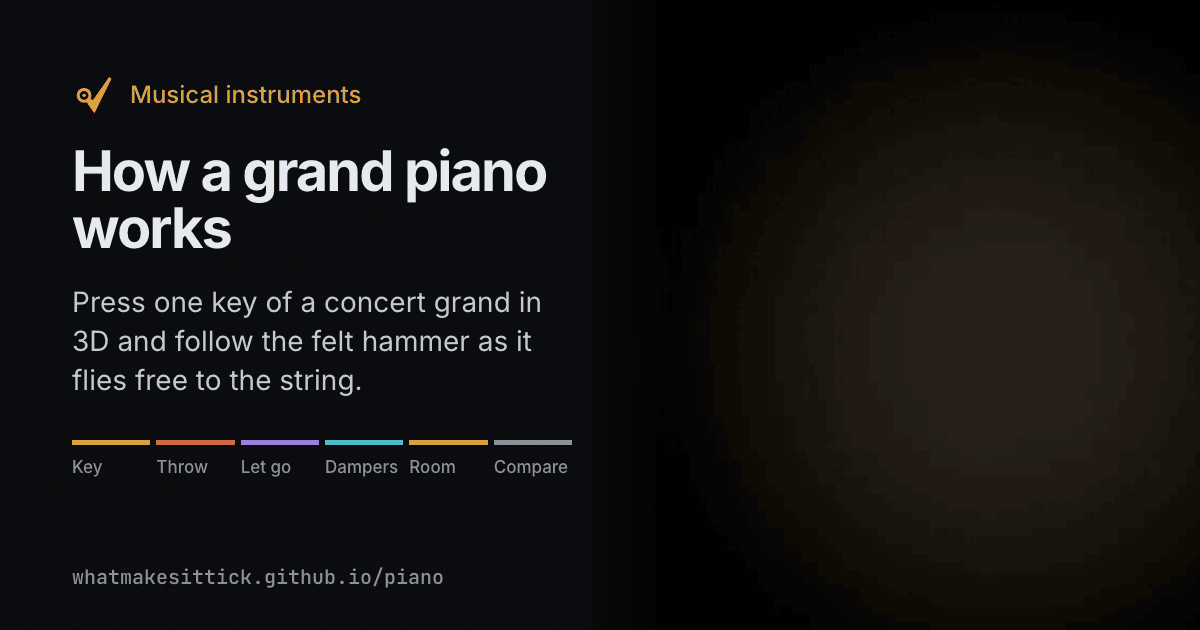
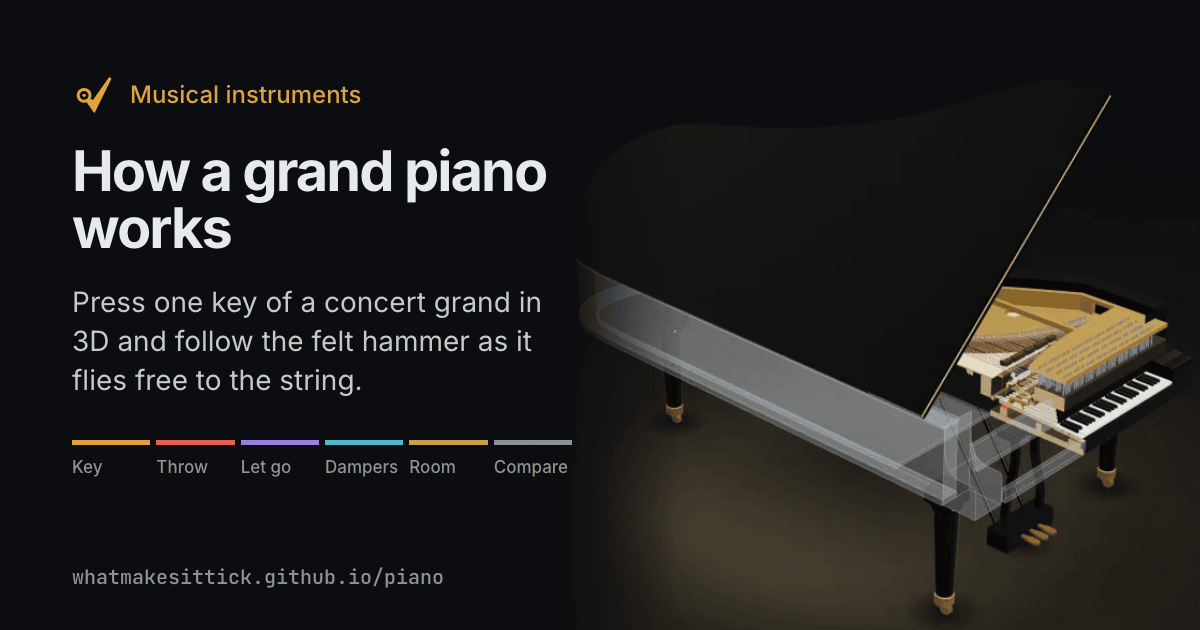
feat(piano): render the cover and social card

Changed region(s): [[0.4625, 0.3619, 1.0, 1.0], [0.555, 0.2111, 0.6167, 0.2413], [0.3392, 0.6937, 0.4008, 0.7238]]

diff --git a/scripts/cards/piano.html b/scripts/cards/piano.html
@@ -47,8 +47,8 @@
 
       .shot img {
         position: absolute;
-        top: -30px;
-        left: -60px;
+        top: -90px;
+        left: -190px;
         width: 1000px;
       }
 
